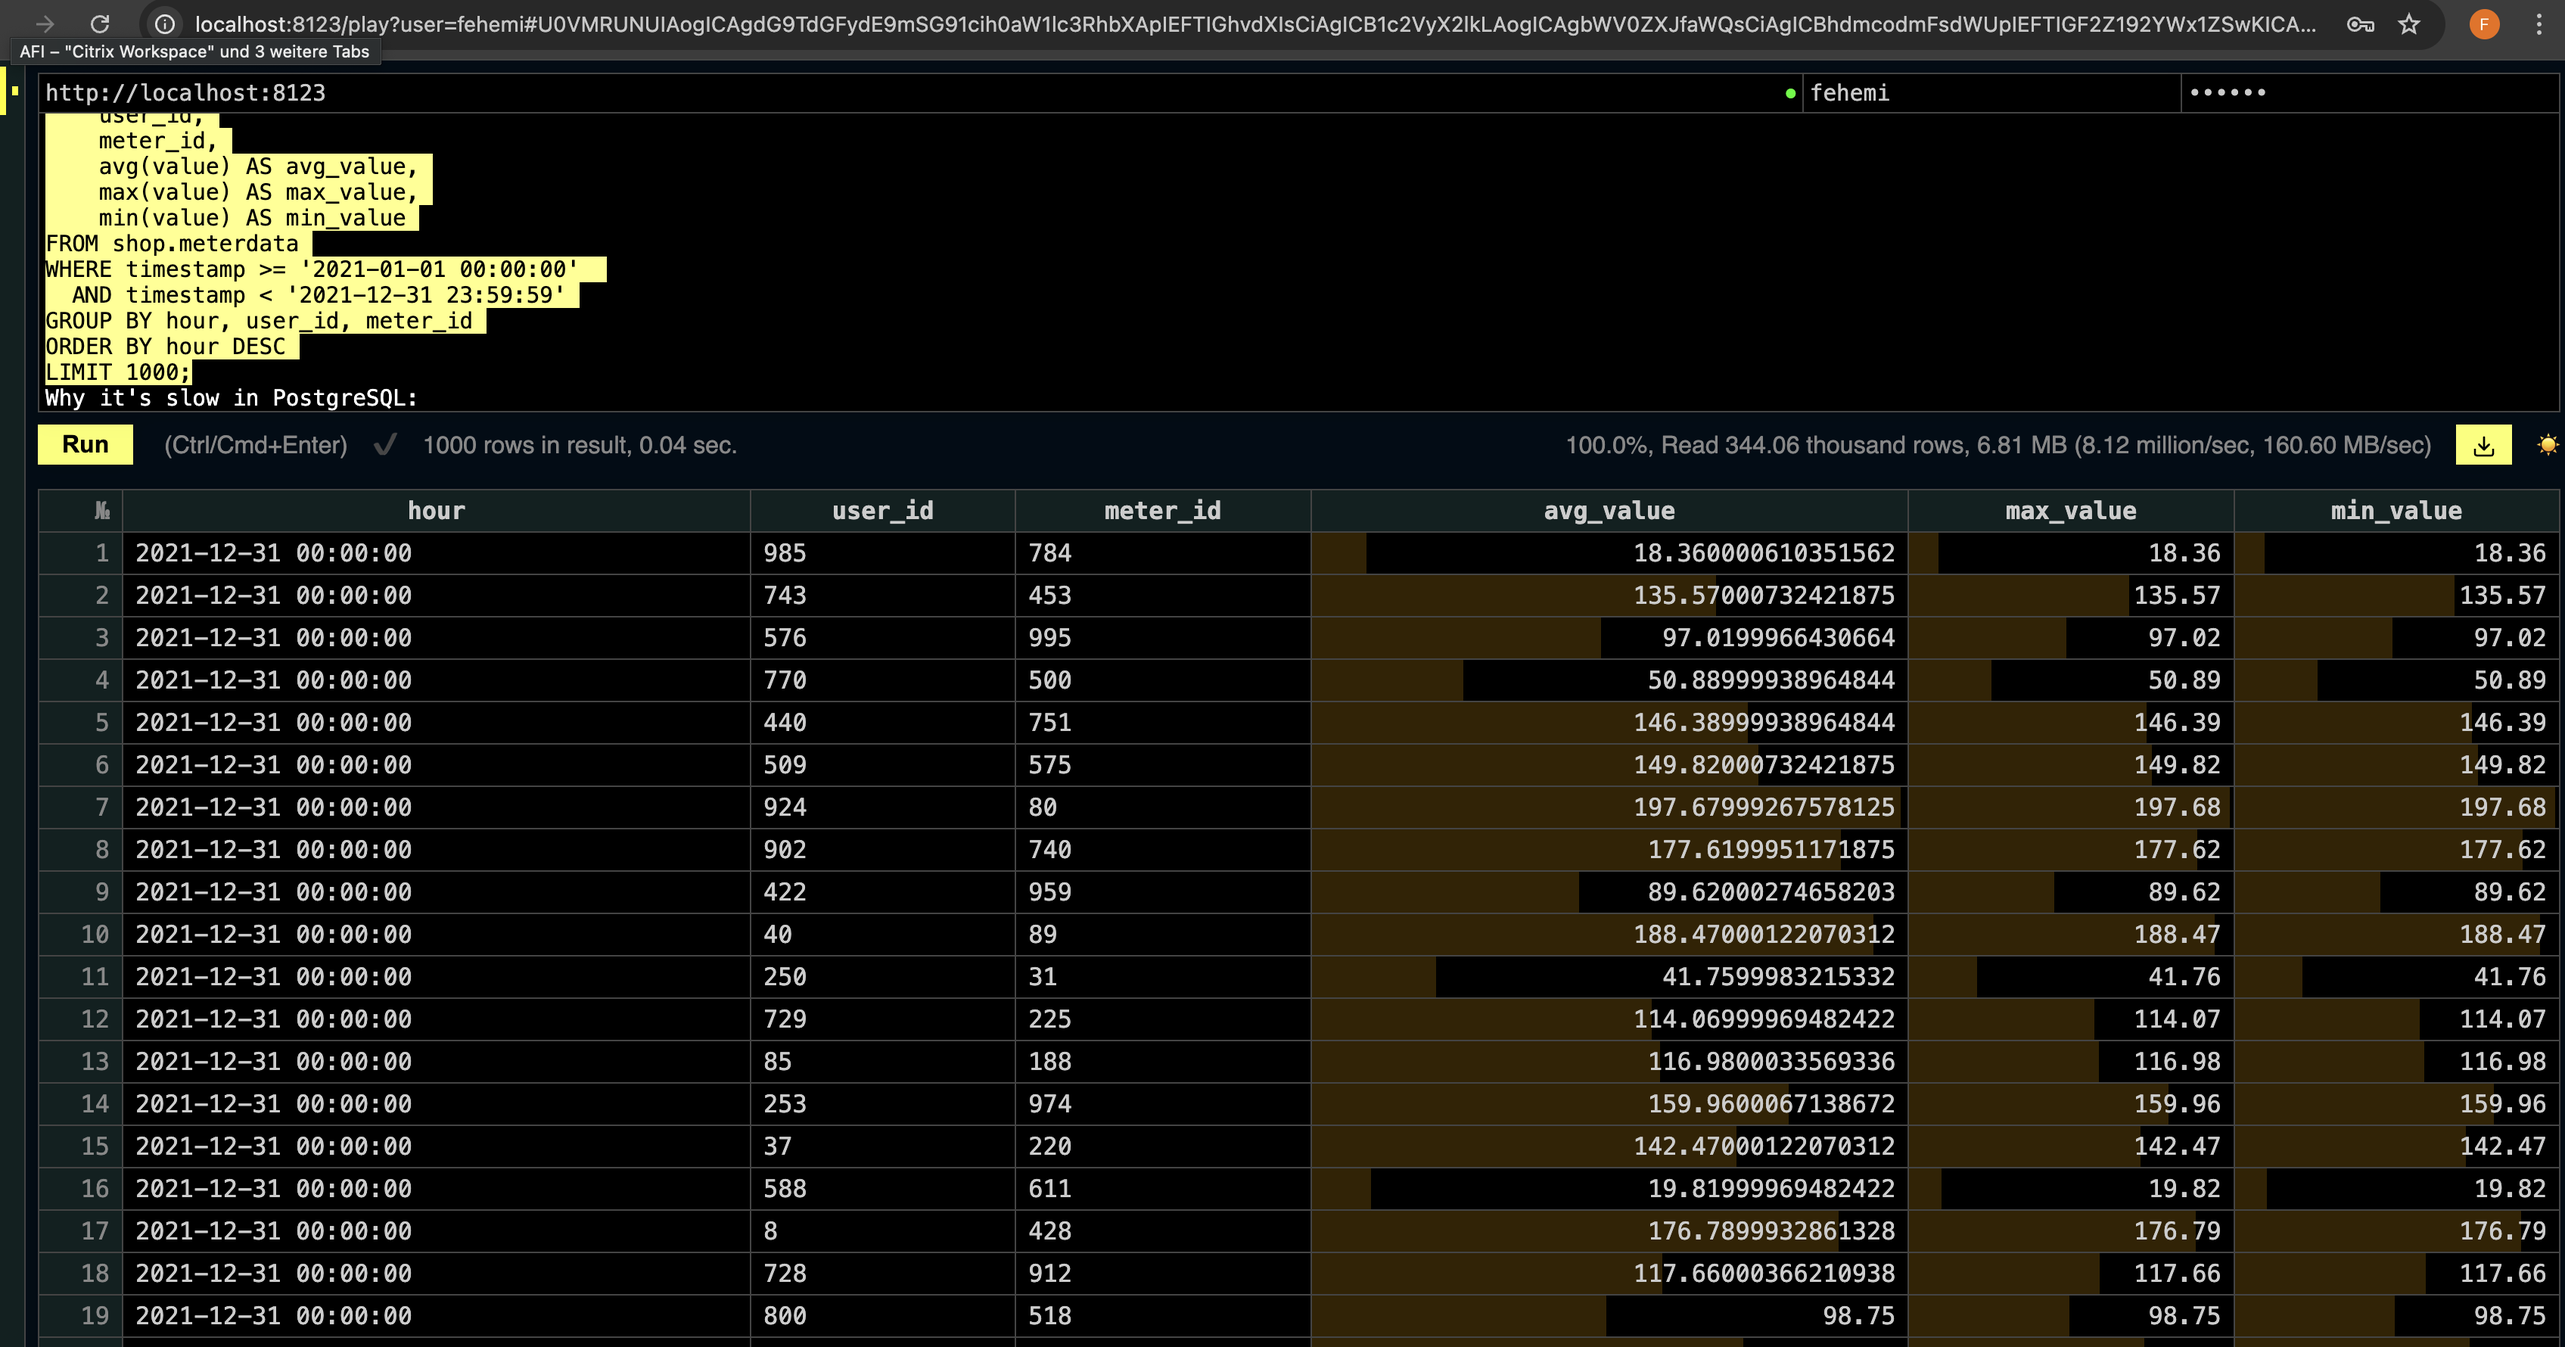
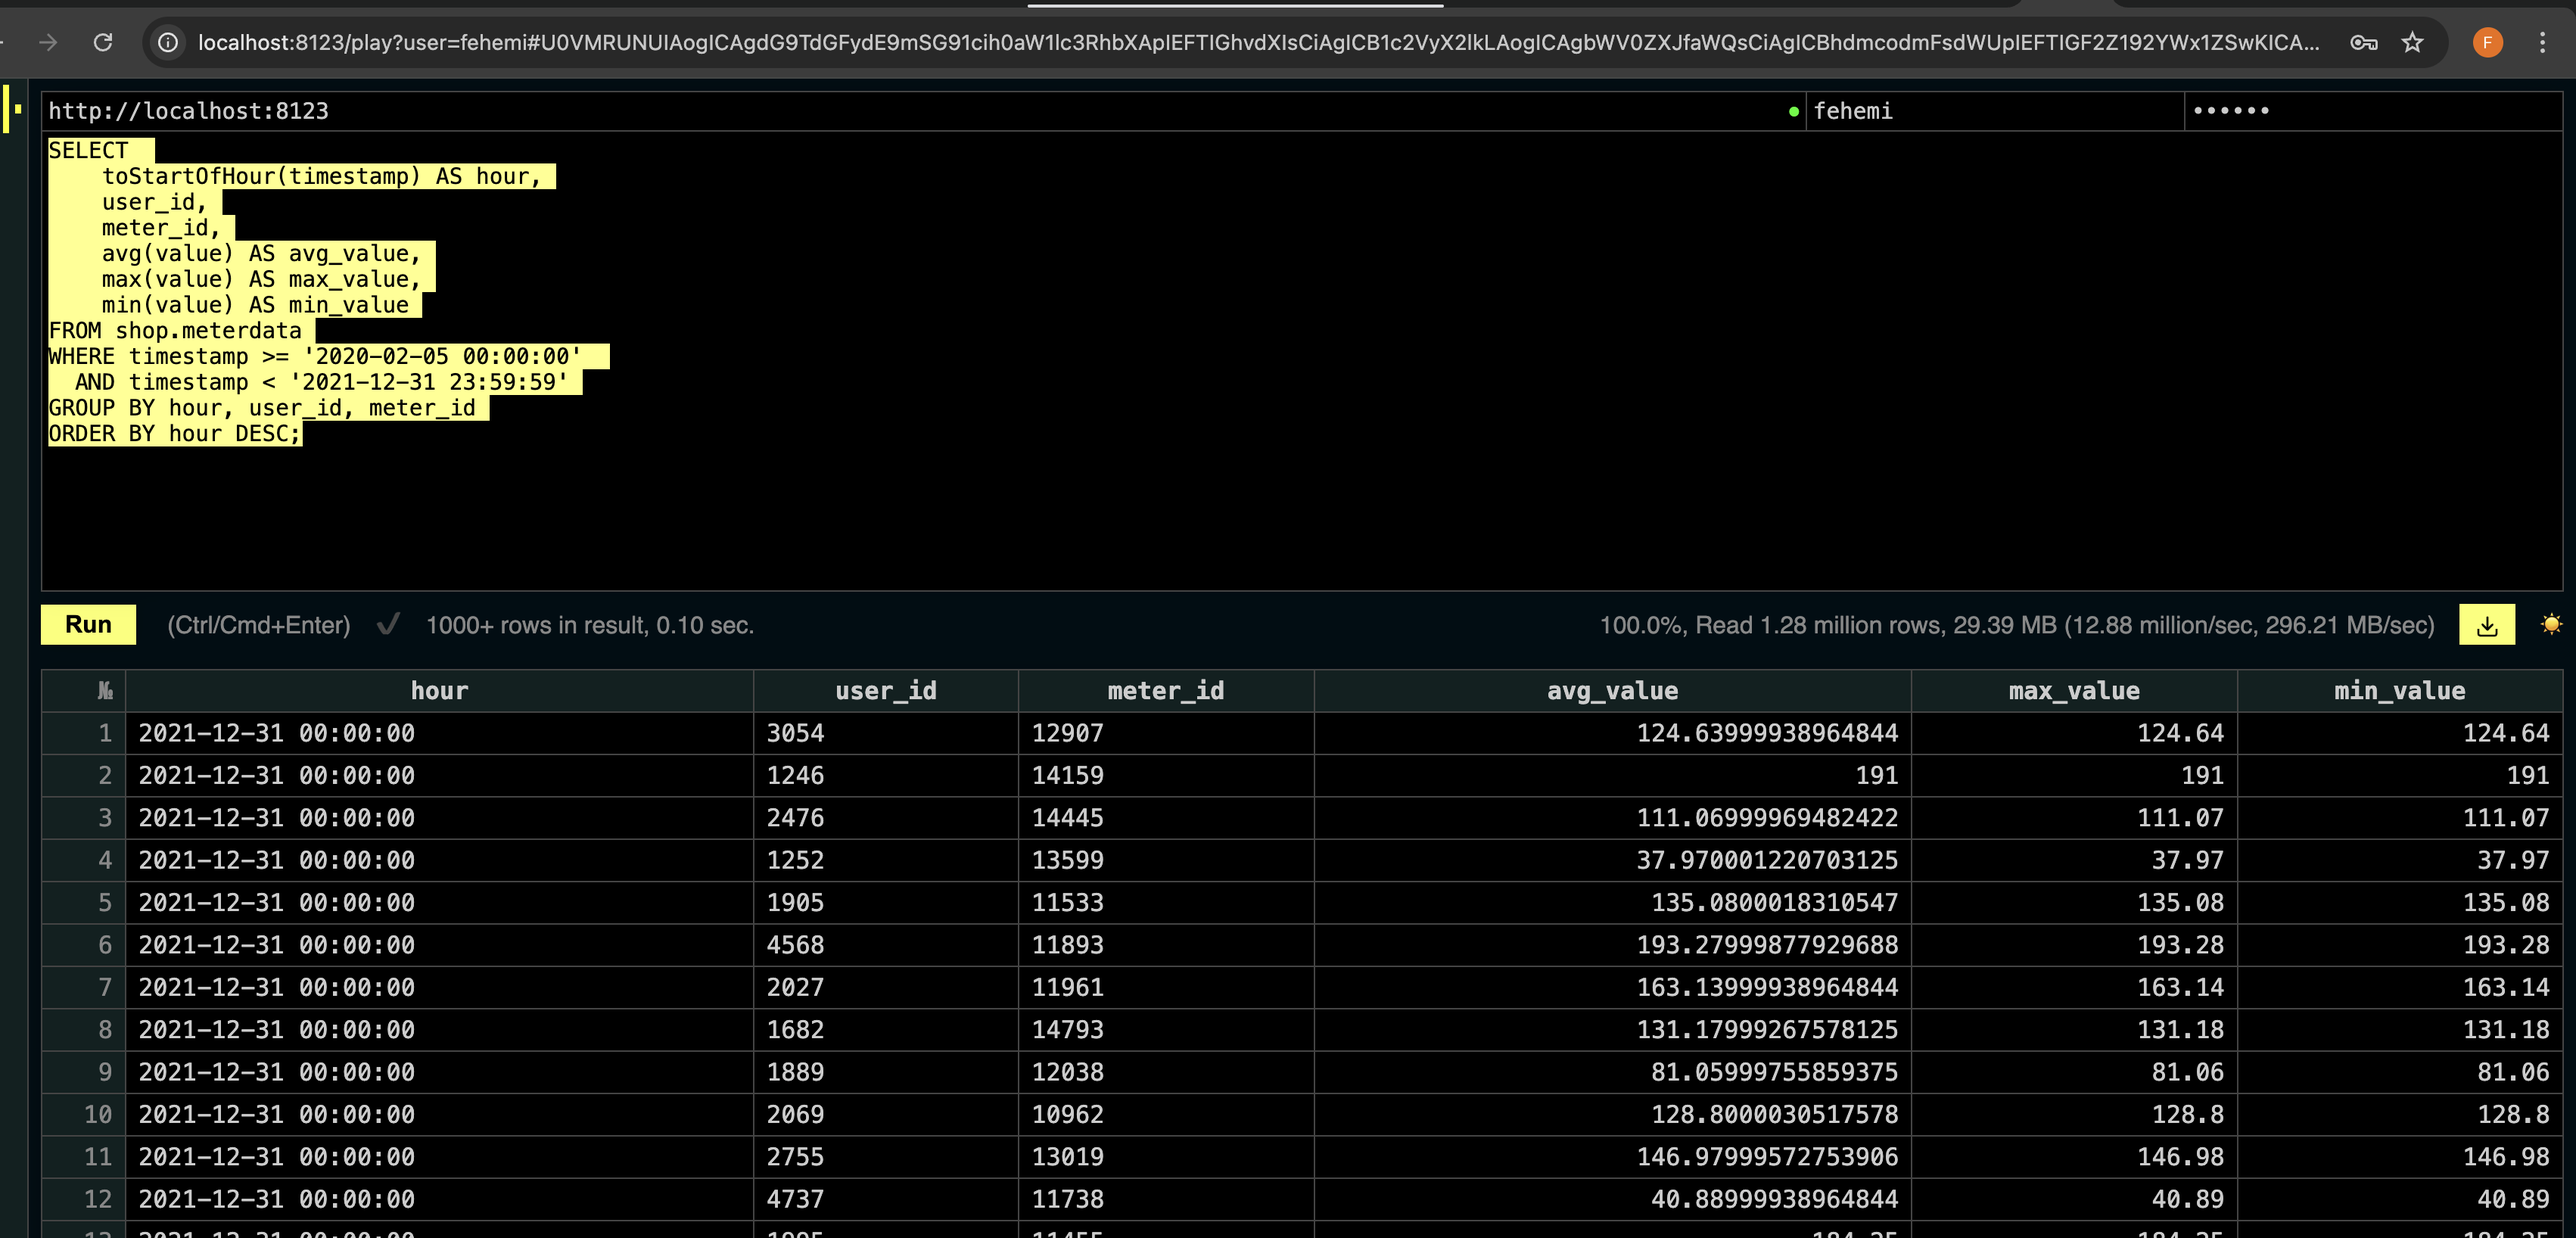
test with more data volume

diff --git a/src/generate_products.py b/src/generate_products.py
@@ -7,13 +7,13 @@ from datetime import datetime, timedelta
 fake = Faker()
 
 # Set number of records to generate
-num_records = 10000000  # Adjust the number of records
+num_records = 2000000  # Adjust the number of records
 start_date = datetime(2020, 1, 1)  # Start date of the time series
 end_date = datetime(2023, 1, 1)  # End date of the time series
 
 # Generate random user_ids and meter_ids
-user_ids = [f"{i}" for i in range(1, 1001)]  # Example user IDs (user_1 to user_1000)
-meter_ids = [f"{i}" for i in range(1, 1001)]  # Example meter IDs (meter_1 to meter_1000)
+user_ids = [f"{i}" for i in range(1000, 5001)]  # Example user IDs (user_1 to user_1000)
+meter_ids = [f"{i}" for i in range(10000, 15001)]  # Example meter IDs (meter_1 to meter_1000)
 
 # Initialize list to store time series data
 data = []

diff --git a/Readme.md b/Readme.md
@@ -175,13 +175,14 @@ SELECT
     max(value) AS max_value,
     min(value) AS min_value
 FROM meterdata
-WHERE timestamp >= '2021-01-01 00:00:00' 
+WHERE timestamp >= '2020-02-05 00:00:00' 
   AND timestamp < '2021-12-31 23:59:59'
 GROUP BY hour, user_id, meter_id
-ORDER BY hour DESC
-LIMIT 10000;
+ORDER BY hour DESC;
 
 takes in postgres around 128 milliseconds whereas the same query:
+
+# Clickhouse
 
 SELECT 
     toStartOfHour(timestamp) AS hour,
@@ -191,10 +192,41 @@ SELECT
     max(value) AS max_value,
     min(value) AS min_value
 FROM shop.meterdata
-WHERE timestamp >= '2021-01-01 00:00:00' 
+WHERE timestamp >= '2020-02-05 00:00:00' 
   AND timestamp < '2021-12-31 23:59:59'
 GROUP BY hour, user_id, meter_id
-ORDER BY hour DESC
-LIMIT 1000;
+ORDER BY hour DESC;
 
 takes in clickhouse around 40 milliseconds
+
+The result you're seeing from your SELECT query is providing key performance metrics about the query execution. Let's break it down:
+
+100.0%, Read 344.06 thousand rows, 6.81 MB (16.97 million/sec, 335.83 MB/sec)
+1. 100.0%:
+
+This indicates that the query has completed successfully and fully. In this context, it means the query scanned 100% of the requested data, without any interruptions or early terminations.
+
+2. Read 344.06 thousand rows:
+
+This shows the number of rows read by the query. In this case, the query scanned 344,060 rows from the dataset.
+The number of rows could be influenced by your query's filtering (WHERE clause) and whether any indexes or optimizations are in place.
+
+3. 6.81 MB:
+
+This shows the amount of data read by the query in megabytes. It indicates that 6.81 MB of data was read during the query execution. This would include the raw data from the storage (disk or memory) that was scanned in order to fulfill the query.
+
+4. (16.97 million/sec, 335.83 MB/sec):
+
+These are the throughput metrics for the read operation:
+
+16.97 million/sec: This is the row throughput—the number of rows read per second. This means that ClickHouse was reading approximately 16.97 million rows per second. It gives an idea of how fast the database is scanning rows in this particular query.
+
+335.83 MB/sec: This is the data throughput—the amount of data ClickHouse read per second. In this case, ClickHouse is reading 335.83 MB per second, which gives a sense of how fast the disk (or cache) is being scanned and how much data is being processed.
+
+### What Does It All Mean?
+
+The performance metrics give you an idea of the efficiency and speed of your query:
+
+Row Throughput (16.97 million/sec): The database is able to process around 17 million rows per second, which is extremely fast. ClickHouse is optimized for handling large volumes of data in columnar storage, so this throughput is expected for read-heavy operations.
+
+Data Throughput (335.83 MB/sec): The system can scan 335 MB of data per second, which indicates how quickly it can move through the disk or memory during the query execution. If you're working with a large dataset or a complex query, the speed at which data is read is a critical factor in overall performance.
